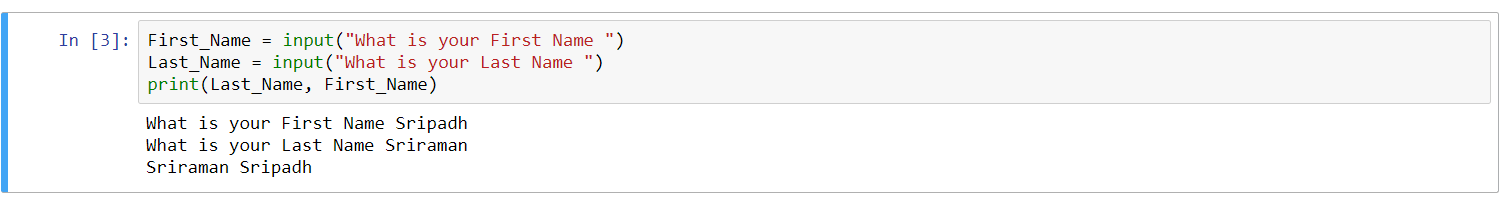
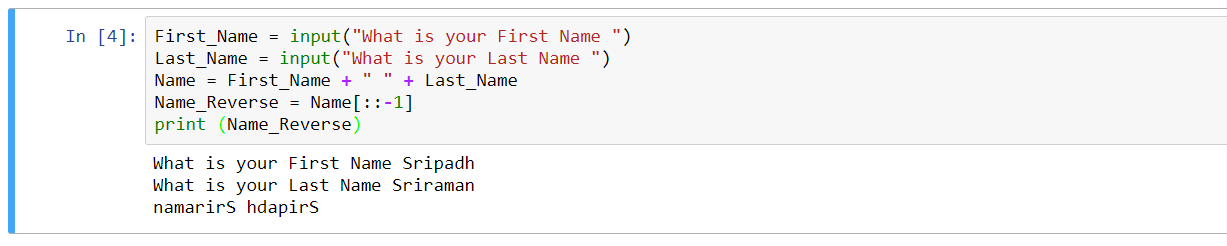
Add files via upload

Changed region(s): [[0.0, 0.0293, 1.0, 0.9659], [0.0929, 0.3805, 1.0, 0.878]]

diff --git a/Python Session 1 - Assignment 3.py b/Python Session 1 - Assignment 3.py
@@ -1,9 +1,11 @@
 
 # coding: utf-8
 
-# In[3]:
+# In[4]:
 
 First_Name = input("What is your First Name ")
 Last_Name = input("What is your Last Name ")
-print(Last_Name, First_Name)
+Name = First_Name + " " + Last_Name
+Name_Reverse = Name[::-1]
+print (Name_Reverse)
 
